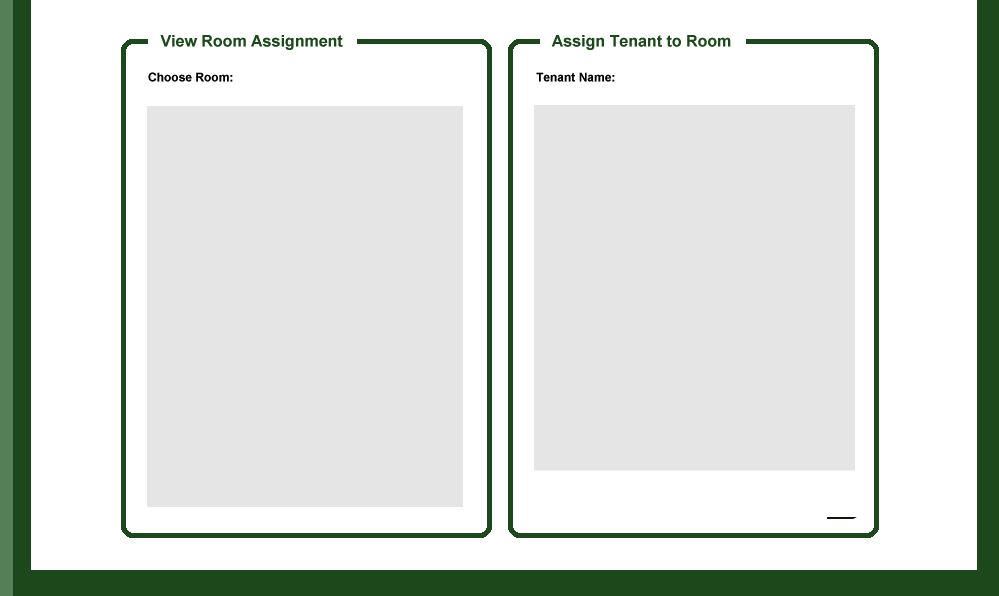
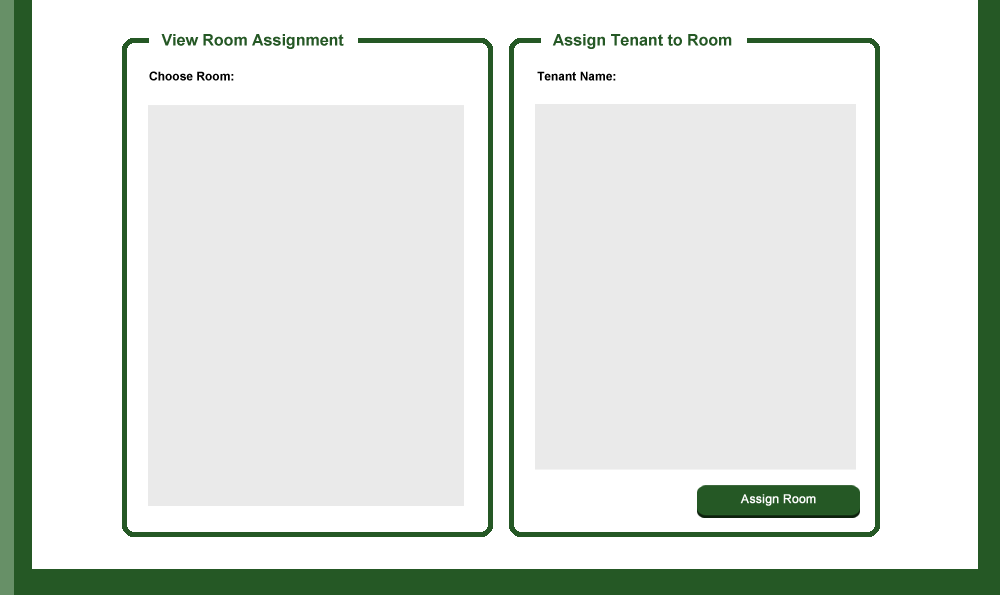
Fixed windows

diff --git a/Iteration 2/Iteration 2/src/GUI/MainMenuFinal.java b/Iteration 2/Iteration 2/src/GUI/MainMenuFinal.java
@@ -39,12 +39,11 @@ public class MainMenuFinal extends javax.swing.JFrame {
 
     }
 
-
     public void setJpanel() {
         jPanel2.setPreferredSize(new java.awt.Dimension(1000, 600));
         jPanel1.add(jPanel2);
         jPanel2.setOpaque(true);
-        jPanel2.setBounds(0, 50, 1000, 600);
+        jPanel2.setBounds(0, 40, 1000, 600);
     }
 
     /**
@@ -66,12 +65,14 @@ public class MainMenuFinal extends javax.swing.JFrame {
         jButton7 = new javax.swing.JButton();
 
         setDefaultCloseOperation(javax.swing.WindowConstants.EXIT_ON_CLOSE);
-        setMinimumSize(new java.awt.Dimension(1000, 680));
-        setPreferredSize(new java.awt.Dimension(1000, 680));
+        setMinimumSize(new java.awt.Dimension(1010, 670));
+        setPreferredSize(new java.awt.Dimension(1010, 670));
         getContentPane().setLayout(null);
 
         jPanel1.setBackground(new java.awt.Color(255, 204, 255));
+        jPanel1.setMinimumSize(new java.awt.Dimension(1010, 630));
         jPanel1.setOpaque(false);
+        jPanel1.setPreferredSize(new java.awt.Dimension(1010, 630));
         jPanel1.setLayout(null);
 
         jButton1.setContentAreaFilled(false);
@@ -166,9 +167,10 @@ public class MainMenuFinal extends javax.swing.JFrame {
     }//GEN-LAST:event_jButton4ActionPerformed
 
     private void jButton5ActionPerformed(java.awt.event.ActionEvent evt) {//GEN-FIRST:event_jButton5ActionPerformed
-        jLabel1.setIcon(new javax.swing.ImageIcon(getClass().getResource("/GUI/Images/reports-tab-peg-crop.png")));
+        jLabel1.setIcon(new javax.swing.ImageIcon(getClass().getResource("/GUI/Images/5-reports-peg-edited-crop-menu.png")));
         jPanel1.remove(jPanel2);
         jPanel2 = new ReportsPanelFinal();
+
         setJpanel();
 
     }//GEN-LAST:event_jButton5ActionPerformed

diff --git a/Iteration 2/Iteration 2/src/GUI/TenantPanelFinal.java b/Iteration 2/Iteration 2/src/GUI/TenantPanelFinal.java
@@ -500,7 +500,7 @@ public class TenantPanelFinal extends javax.swing.JPanel {
 
         jLabel10.setText("Name");
         add(jLabel10);
-        jLabel10.setBounds(70, 180, 30, 14);
+        jLabel10.setBounds(70, 180, 40, 14);
 
         jLabel11.setText("School");
         jLabel11.setPreferredSize(null);
@@ -509,7 +509,7 @@ public class TenantPanelFinal extends javax.swing.JPanel {
 
         jLabel12.setText("Degree");
         add(jLabel12);
-        jLabel12.setBounds(70, 240, 40, 14);
+        jLabel12.setBounds(70, 240, 50, 14);
 
         jLabel13.setText("Year");
         add(jLabel13);

diff --git a/Iteration 2/Iteration 2/src/GUI/ReportsPanelFinal.java b/Iteration 2/Iteration 2/src/GUI/ReportsPanelFinal.java
@@ -146,7 +146,7 @@ public class ReportsPanelFinal extends javax.swing.JPanel {
         add(jButton7);
         jButton7.setBounds(80, 410, 80, 35);
 
-        jLabel1.setIcon(new javax.swing.ImageIcon(getClass().getResource("/GUI/Images/5-reports-peg-edited-panel.png"))); // NOI18N
+        jLabel1.setIcon(new javax.swing.ImageIcon(getClass().getResource("/GUI/Images/5-reports-peg-edited-crop-panel.png"))); // NOI18N
         add(jLabel1);
         jLabel1.setBounds(0, 0, 1000, 600);
     }// </editor-fold>//GEN-END:initComponents

diff --git a/Iteration 2/Iteration 2/src/GUI/EditGeneralBillPanelFinal.java b/Iteration 2/Iteration 2/src/GUI/EditGeneralBillPanelFinal.java
@@ -531,7 +531,7 @@ public class EditGeneralBillPanelFinal extends javax.swing.JPanel {
         jPanel2.setPreferredSize(new java.awt.Dimension(1000, 600));
         this.add(jPanel2);
         jPanel2.setOpaque(true);
-        jPanel2.setBounds(0, 0, 1000, 600);
+        jPanel2.setBounds(0, -10, 1000, 600);
     }
     // Variables declaration - do not modify//GEN-BEGIN:variables
     private javax.swing.JButton jButton1;

diff --git a/Iteration 2/Iteration 2/src/GUI/RoomPanelFinal.java b/Iteration 2/Iteration 2/src/GUI/RoomPanelFinal.java
@@ -223,7 +223,7 @@ public class RoomPanelFinal extends javax.swing.JPanel {
             }
         });
         add(jButton1);
-        jButton1.setBounds(710, 480, 150, 50);
+        jButton1.setBounds(690, 480, 170, 50);
 
         jLabel1.setIcon(new javax.swing.ImageIcon(getClass().getResource("/GUI/Images/rooms-tab-peg-edited-crop.png"))); // NOI18N
         jLabel1.setMaximumSize(new java.awt.Dimension(1000, 596));

diff --git a/Iteration 2/Iteration 2/src/GUI/EditTenantPanelFinal.java b/Iteration 2/Iteration 2/src/GUI/EditTenantPanelFinal.java
@@ -1090,7 +1090,7 @@ public class EditTenantPanelFinal extends javax.swing.JPanel {
         jPanel2.setPreferredSize(new java.awt.Dimension(1000, 600));
         this.add(jPanel2);
         jPanel2.setOpaque(true);
-        jPanel2.setBounds(0, 0, 1000, 600);
+        jPanel2.setBounds(0, -10, 1000, 600);
     }
 
     // Variables declaration - do not modify//GEN-BEGIN:variables

diff --git a/Iteration 2/Iteration 2/src/GUI/BillsPanelFinal.java b/Iteration 2/Iteration 2/src/GUI/BillsPanelFinal.java
@@ -489,7 +489,7 @@ public class BillsPanelFinal extends javax.swing.JPanel {
         jPanel2.setPreferredSize(new java.awt.Dimension(1000, 600));
         this.add(jPanel2);
         jPanel2.setOpaque(true);
-        jPanel2.setBounds(0, 0, 1000, 600);
+        jPanel2.setBounds(0, -10, 1000, 600);
     }
 
     // Variables declaration - do not modify//GEN-BEGIN:variables
